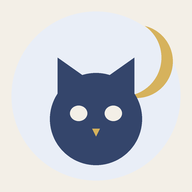
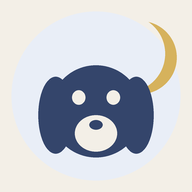
redesign(saju): 마스코트 고양이 → 강아지 + 홈 상단 재구성
- 마스코트 SVG를 처진 귀 강아지로 교체(아이콘·기능그래픽 포함)
- 앱 이름 고양이사주일기 → 강아지사주일기, 말투 ~다냥 → ~다멍
  ('그냥'은 일반 단어라 제외하는 치환 규칙 사용)
- 홈 상단을 좌우 아이콘 2개+가운데 마스코트 → 가로 인사 배너 +
  4×2 빠른메뉴 그리드로 재구성(쿠팡 홈 구성 참고)
- 서비스워커 캐시명 유지, 기존 화면 로직 무변경

Changed region(s): [[0.1875, 0.2812, 0.8438, 0.875], [0.75, 0.0938, 0.9375, 0.4375]]

diff --git a/saju/index.html b/saju/index.html
@@ -3,7 +3,7 @@
 <head>
 <meta charset="utf-8">
 <meta name="viewport" content="width=device-width,initial-scale=1">
-<title>고양이사주일기 — 온보딩·홈·4탭·데일리타로·퍼널·결제</title>
+<title>강아지사주일기 — 온보딩·홈·4탭·데일리타로·퍼널·결제</title>
 <link rel="stylesheet" href="assets/app_v10.css?v=10">
 
 <link rel="manifest" href="manifest.json">
@@ -11,10 +11,10 @@
 <meta name="mobile-web-app-capable" content="yes">
 <meta name="apple-mobile-web-app-capable" content="yes">
 <meta name="apple-mobile-web-app-status-bar-style" content="default">
-<meta name="apple-mobile-web-app-title" content="고양이사주">
+<meta name="apple-mobile-web-app-title" content="강아지사주">
 <link rel="apple-touch-icon" href="icon-192.png">
 <link rel="icon" type="image/png" sizes="512x512" href="icon-512.png">
-<meta name="description" content="사주·타로로 오늘의 나를 기록하는 고양이 운세 일기">
+<meta name="description" content="사주·타로로 오늘의 나를 기록하는 강아지 운세 일기">
 <style id="pwa-standalone">
 /* 앱(standalone)으로 실행될 땐 데스크톱 목업 프레임을 없애고 전체화면으로 */
 @media (display-mode: standalone), (display-mode: fullscreen) {
@@ -34,7 +34,7 @@
   <!-- 온보딩 1~6 -->
   <div class="screen" id="scr-ob1">
     <button class="skip" onclick="finishOnboard()">건너뛰기</button>
-    <div class="ob"><div id="obcat1"></div><h2>안녕하세요.<br>저는 고양이사주일기의 보리예요.</h2></div>
+    <div class="ob"><div id="obcat1"></div><h2>안녕하세요.<br>저는 강아지사주일기의 보리예요.</h2></div>
     <p class="terms">앱을 사용함으로써 <u>개인정보처리방침</u> 및 <u>이용약관</u>에 동의하게 됩니다.</p>
     <button class="btn-cta" onclick="go('scr-ob2')">안녕!</button>
   </div>
@@ -82,25 +82,28 @@
   <div class="screen" id="scr-home">
     <div class="scroll">
       <div class="home-head">
-        <span class="logo">고양이사주일기 🐾</span>
+        <span class="logo">강아지사주일기 🐾</span>
         <span class="right">
           <span class="days" id="days-line"></span>
           <span class="wallet">🐾 <span class="jelly-n">1,500</span> 젤리</span>
         </span>
       </div>
-      <div class="home-top">
-        <div class="icon-col">
-          <button class="h-icon" onclick="showTab('scr-today')"><span class="ic">🍀</span>오늘운세</button>
-          <button class="h-icon" onclick="go('scr-box');renderBox()"><span class="ic">📦</span>운세보관함</button>
-        </div>
-        <div class="mascot">
+      <div class="hero-band">
+        <div class="hero-txt">
           <div class="blurb" id="mascot-talk">‥</div>
-          <div id="homecat"></div>
+          <div class="hero-sub">오늘의 기운을 보리가 먼저 읽어뒀어요</div>
         </div>
-        <div class="icon-col">
-          <button class="h-icon" onclick="openMail()"><span class="ic">📮<span class="noti" id="mail-noti">♥1</span></span>편지함</button>
-          <button class="h-icon" onclick="go('scr-jelly')"><span class="ic">🏭</span>젤리공장</button>
-        </div>
+        <div class="hero-dog" id="homecat"></div>
+      </div>
+      <div class="quick-grid">
+        <button class="q" onclick="showTab('scr-today')"><span class="qi">🍀</span><span class="ql">오늘운세</span></button>
+        <button class="q" onclick="tarotOpen('today','🐾 오늘의 타로')"><span class="qi">🔮</span><span class="ql">데일리타로</span></button>
+        <button class="q" onclick="showTab('scr-diary')"><span class="qi">📔</span><span class="ql">일기장</span></button>
+        <button class="q" onclick="openMail()"><span class="qi">📮<span class="noti" id="mail-noti">♥1</span></span><span class="ql">편지함</span></button>
+        <button class="q" onclick="go('scr-box');renderBox()"><span class="qi">📦</span><span class="ql">운세보관함</span></button>
+        <button class="q" onclick="go('scr-jelly')"><span class="qi">🏭</span><span class="ql">젤리공장</span></button>
+        <button class="q" onclick="go('scr-jelly')"><span class="qi">🎁</span><span class="ql">무료젤리</span></button>
+        <button class="q" onclick="showTab('scr-more')"><span class="qi">⚙</span><span class="ql">더보기</span></button>
       </div>
       <div id="home-sections"><!-- data.js CATALOG로 렌더 --></div>
       <div style="height:30px"></div>
@@ -179,7 +182,7 @@
     <div class="scroll">
       <div class="jf-row"><span class="paw">🐾</span><div class="tx"><b>말랑 젤리</b><span>매일 1 젤리 받기</span></div><button class="get" onclick="earn(this,1)">받기</button></div>
     </div>
-    <div class="toast" id="toast-jelly">젤리가 도착했다냥 🐾</div>
+    <div class="toast" id="toast-jelly">젤리가 도착했다멍 🐾</div>
   </div>
 
   <!-- 편지함 -->
@@ -214,7 +217,7 @@
 
   <!-- 데일리 타로: 인트로 -->
   <div class="screen" id="scr-tarot-intro">
-    <div class="topbar"><button class="back" onclick="showTab('scr-home')">←</button><span class="h-title">고양이사주일기 🐾</span></div>
+    <div class="topbar"><button class="back" onclick="showTab('scr-home')">←</button><span class="h-title">강아지사주일기 🐾</span></div>
     <div class="tarot-intro">
       <div id="tarotcat"></div>
       <h2 id="tarot-intro-msg"></h2>
@@ -225,9 +228,9 @@
 
   <!-- 데일리 타로: 뽑기 애니메이션 -->
   <div class="screen" id="scr-tarot-draw">
-    <div class="topbar"><button class="back" onclick="go('scr-tarot-intro')">←</button><span class="h-title">고양이사주일기 🐾</span></div>
+    <div class="topbar"><button class="back" onclick="go('scr-tarot-intro')">←</button><span class="h-title">강아지사주일기 🐾</span></div>
     <div class="draw-stage">
-      <div class="draw-hint" id="draw-hint">카드를 섞는 중이다냥…</div>
+      <div class="draw-hint" id="draw-hint">카드를 섞는 중이다멍…</div>
       <div class="deck shuffling" id="deck"><span class="back"></span><span class="back"></span><span class="back"></span></div>
       <div class="pick3" id="pick3" style="display:none"></div>
     </div>
@@ -235,7 +238,7 @@
 
   <!-- 데일리 타로: 결과 -->
   <div class="screen" id="scr-tarot-res">
-    <div class="topbar"><button class="back" onclick="showTab('scr-home')">←</button><span class="h-title">고양이사주일기 🐾</span></div>
+    <div class="topbar"><button class="back" onclick="showTab('scr-home')">←</button><span class="h-title">강아지사주일기 🐾</span></div>
     <div class="scroll">
       <div class="tarot-res" id="tarot-res-body"></div>
     </div>
@@ -248,7 +251,7 @@
     <div class="topbar"><button class="back" onclick="showTab('scr-home')">←</button></div>
     <div class="scroll" id="funnel-g-body"></div>
     <button class="btn-cta" onclick="startSajuInput()">다음</button>
-    <div class="toast" id="toast-funnel-g">지금 사용할 수 있는 쿠폰이 있다냥 🐈</div>
+    <div class="toast" id="toast-funnel-g">지금 사용할 수 있는 쿠폰이 있다멍 🐈</div>
   </div>
 
   <!-- 앱 내 카드 슬라이드 리포트 (다크) -->
@@ -314,7 +317,7 @@
           <li>🙋♀ <b>사주로 보는 결혼 후의 나</b></li>
           <li class="dep">🖐 오행으로 보는 사주 해석</li>
           <li class="dep">🔟 십신으로 보는 사주 해석</li>
-          <li class="dep">🐱 일주로 보는 내 고양이</li>
+          <li class="dep">🐱 일주로 보는 내 강아지</li>
           <li>💔 <b>절대 만나선 안되는 결혼 상대</b></li>
           <li class="dep">📅 언제 만나게 되는지<span class="pop">인기</span></li>
           <li class="dep">🧑 그 상대의 성격 + 외모<span class="pop">인기</span></li>
@@ -342,7 +345,7 @@
       <div style="height:20px"></div>
     </div>
     <button class="btn-cta" onclick="startSajuInput()">다음</button>
-    <div class="toast" id="toast-funnel">지금 사용할 수 있는 쿠폰이 있다냥 🐈</div>
+    <div class="toast" id="toast-funnel">지금 사용할 수 있는 쿠폰이 있다멍 🐈</div>
   </div>
 
   <!-- 통합 사주/타로 입력 (단계식) — 모든 상품이 이 한 화면을 공유 -->
@@ -362,14 +365,14 @@
       <p class="wallet-line" style="color:#b8b0a2">결제하면 운세보관함에 영구 저장돼 언제든 다시 볼 수 있어요.</p>
     </div>
     <button class="btn-cta" id="pay-btn" onclick="pay()">젤리 내고 보기</button>
-    <div class="toast" id="toast-pay">쿠폰이 자동으로 적용됐다냥 🎟</div>
+    <div class="toast" id="toast-pay">쿠폰이 자동으로 적용됐다멍 🎟</div>
   </div>
 
   <!-- 로딩 -->
   <div class="screen" id="scr-loading">
     <div class="load-wrap">
       <div class="load-cat">🐱</div>
-      <div class="load-msg" id="load-msg">만세력을 뒤적이는 중이다냥…</div>
+      <div class="load-msg" id="load-msg">만세력을 뒤적이는 중이다멍…</div>
       <div class="dots"><span class="dot"></span><span class="dot"></span><span class="dot"></span></div>
     </div>
     <button class="btn-cta" id="btn-result" style="display:none" onclick="goResult()">결과 보러 가기 ✨</button>
@@ -413,7 +416,7 @@ function resetAll(){ Object.keys(localStorage).filter(k=>k.startsWith('catsaju_'
 
 /* ═══ 공용 UI ═══ */
 const $=id=>document.getElementById(id);
-const CAT_SVG='<svg viewBox="0 0 120 100"><g fill="#fff" stroke="#4a3d33" stroke-width="3.4" stroke-linejoin="round" stroke-linecap="round"><path d="M35 30 L28 10 L48 20 Z"/><path d="M85 30 L92 10 L72 20 Z"/><ellipse cx="60" cy="52" rx="34" ry="30"/></g><g stroke="#4a3d33" stroke-width="2.6" stroke-linecap="round"><line x1="14" y1="48" x2="30" y2="50"/><line x1="14" y1="58" x2="30" y2="56"/><line x1="106" y1="48" x2="90" y2="50"/><line x1="106" y1="58" x2="90" y2="56"/></g><circle cx="48" cy="50" r="2.8" fill="#4a3d33"/><circle cx="72" cy="50" r="2.8" fill="#4a3d33"/><path d="M55 60 Q60 65 65 60" stroke="#4a3d33" stroke-width="2.6" fill="none" stroke-linecap="round"/></svg>';
+const CAT_SVG='<svg viewBox="0 0 120 100"><g fill="#fff" stroke="#4a3d33" stroke-width="3.4" stroke-linejoin="round" stroke-linecap="round"><path d="M34 30 Q17 36 18 58 Q19 78 36 76 Z"/><path d="M86 30 Q103 36 102 58 Q101 78 84 76 Z"/><ellipse cx="60" cy="50" rx="32" ry="29"/><ellipse cx="60" cy="64" rx="18" ry="13"/></g><circle cx="47" cy="45" r="3" fill="#4a3d33"/><circle cx="73" cy="45" r="3" fill="#4a3d33"/><ellipse cx="60" cy="58" rx="5.6" ry="4.2" fill="#4a3d33"/><g stroke="#4a3d33" stroke-width="2.6" fill="none" stroke-linecap="round"><path d="M60 62 v3"/><path d="M60 65 q-6 5 -11 0"/><path d="M60 65 q6 5 11 0"/></g></svg>';
 ['obcat1','obcat2','obcat3','obcat4','obcat5','obcat6','homecat','diarycat','tarotcat'].forEach(id=>{ const el=$(id); if(el) el.innerHTML=CAT_SVG; });
 
 function go(id){
@@ -433,7 +436,7 @@ function updateTabbar(cur){
   $(cur).appendChild(div);
 }
 function showTab(id){ go(id); if(id==='scr-today') renderToday(); if(id==='scr-diary') renderDiary(); if(id==='scr-more') renderMore(); if(id==='scr-home') renderHome(); }
-const STUBS=['은 다음 업데이트에서 열려냥 🐾','는 지금 열심히 만드는 중이야 🔨','는 조금만 기다려줘, 예쁘게 굽는 중 🎀'];
+const STUBS=['은 다음 업데이트에서 열려멍 🐾','는 지금 열심히 만드는 중이야 🔨','는 조금만 기다려줘, 예쁘게 굽는 중 🎀'];
 function stub(name){ const t=$('toast-global'); t.textContent='「'+name.replace(/^[^\s]+ /,'')+'」'+STUBS[hashN(name,STUBS.length)]; t.classList.add('show'); setTimeout(()=>t.classList.remove('show'),1900); }
 function couponToast(){ setTimeout(()=>flash('toast-funnel'),600); }
 function flash(id){ const t=$(id); t.classList.add('show'); setTimeout(()=>t.classList.remove('show'),2400); }
@@ -583,7 +586,7 @@ function startHeroTimer(){ if(_heroTmr)clearInterval(_heroTmr); let t=86381;
 /* L3 무료 쇼츠 스트립 (가변보상 도파민) */
 const SHORTS=[
   ['🍟','오늘 뭐 먹지?',['마라탕 🥵','국밥 🍚','샐러드 🥗','치킨 🍗','파스타 🍝'],'spin'],
-  ['🐱','고양이 속마음',['집사, 오늘 좀 멋진데? 🐾','간식 어디감? 😾','네 곁이 제일 좋아 💜'],''],
+  ['🐱','강아지 속마음',['집사, 오늘 좀 멋진데? 🐾','간식 어디감? 😾','네 곁이 제일 좋아 💜'],''],
   ['🙆','YES or NO',['YES! 질러도 좋은 날 🙆','조금만 기다려 🙅','반반의 날 🤔'],'spin'],
   ['🎨','오늘 행운 컬러',['라벤더 💜','민트 🌿','코랄 🧡','아이보리 🤍'],''],
   ['🍀','행운 카드',['오늘은 귀인을 만날 운 🍀','작은 선물이 올 운 🎁','미뤄둔 연락이 올 운 📩'],'spin'],
@@ -595,7 +598,7 @@ function shortsHtml(){
 /* 쇼츠 결과 — 토스트로 흘려보내지 않고 제대로 된 결과 시트 + 보관함 저장 */
 const SHORT_DESC={
   '오늘 뭐 먹지?':['오늘 네 기운엔 이게 제일 잘 맞아. 고민할 시간에 그냥 이걸로 🍽','속이 편한 쪽을 고르면 오후 컨디션이 달라져.'],
-  '고양이 속마음':['보리가 오늘 너한테 하고 싶은 말이야 🐾','오늘은 이 말이 유독 필요한 날 같아서.'],
+  '강아지 속마음':['보리가 오늘 너한테 하고 싶은 말이야 🐾','오늘은 이 말이 유독 필요한 날 같아서.'],
   'YES or NO':['오늘 흐름 기준의 답이야. 참고만 해 🙆','확신이 안 서면 하루 재워두는 것도 답이야.'],
   '오늘 행운 컬러':['오늘 이 색을 한 점만 지녀도 기운이 붙어 🎨','옷·소품·폰 배경 어디든 좋아.'],
   '행운 카드':['오늘 너에게 들어온 기운이야 🍀','작은 신호를 놓치지 마.'],
@@ -762,7 +765,7 @@ function tarotShuffle(){
   go('scr-tarot-draw');
   const deck=$('deck'), pick=$('pick3'), hint=$('draw-hint');
   deck.style.display=''; deck.classList.add('shuffling'); pick.style.display='none';
-  hint.textContent='카드를 섞는 중이다냥…';
+  hint.textContent='카드를 섞는 중이다멍…';
   setTimeout(()=>{
     deck.classList.remove('shuffling'); deck.style.display='none';
     hint.textContent='마음이 가는 카드를 한 장 골라봐 🐾';
@@ -814,7 +817,7 @@ function tarotDraw(){
     <div class="kw-row">${c.kw.map(k=>`<span class="kw">${k}</span>`).join('')}</div>
     <p class="rtext">${p1}</p>
     <p class="rtext">${p2}</p>
-    <div class="react-total">이 운세, 어땠냥? <b>${(90000+seed).toLocaleString()}명</b>이 반응했어요</div>
+    <div class="react-total">이 운세, 어땠멍? <b>${(90000+seed).toLocaleString()}명</b>이 반응했어요</div>
     <div class="react-row">
       ${[['💜','고마워'],['💪','힘난다'],['🍀','도움돼'],['😀','재밌어'],['🤔','아쉬워']].map(([e,l])=>
         `<button class="react-btn" onclick="this.classList.toggle('picked')"><span class="re">${e}</span>${l}</button>`).join('')}
@@ -920,7 +923,7 @@ function closeSent(){
   $('dlg-sent').classList.remove('show'); $('reply-area').style.display='none';
   const now=new Date(); const ls=S.letters;
   ls.push({ date:`${now.getFullYear()}. ${now.getMonth()+1}. ${now.getDate()}.`,
-    text:`답장 고마워!! 편지함에 네 글씨가 있으니까 기분이 좋다냥. 내일 아침 운세도 예쁘게 준비해둘게 🐾`, read:true });
+    text:`답장 고마워!! 편지함에 네 글씨가 있으니까 기분이 좋다멍. 내일 아침 운세도 예쁘게 준비해둘게 🐾`, read:true });
   S.letters=ls; renderLetters();
 }
 
@@ -1147,7 +1150,7 @@ function startLoading(){
   const MSGS=[...LOADING_MSGS.slice(0,3), ...own, LOADING_MSGS[LOADING_MSGS.length-1]];
   $('load-msg').textContent=MSGS[0];
   msgTimer=setInterval(()=>{ i++;
-    if(i>=MSGS.length){ clearInterval(msgTimer); $('btn-result').style.display='block'; $('load-msg').textContent='다 됐어! 네 리포트가 나왔다냥 ✨'; return; }
+    if(i>=MSGS.length){ clearInterval(msgTimer); $('btn-result').style.display='block'; $('load-msg').textContent='다 됐어! 네 리포트가 나왔다멍 ✨'; return; }
     $('load-msg').textContent=MSGS[i]; },1000);
 }
 function goResult(){ const p=S.box.find(x=>x.type==='report'); openReport(p); }
@@ -1210,7 +1213,7 @@ function openTodayFortune(){
     <div class="rtime" style="background:#fff;color:#3d3833">${warn('color')}</div>
     <div class="rtime" style="background:#bfe0f5;color:#1c4a66">${warn('place')}</div>
     <div class="rtime" style="background:#d8c9f5;color:#3b2b6e">👶 조심할 사람: ${warn('person')}</div></div>`);
-  cards.push(`<div class="big">🐱</div><h2>운세 풀이는 어땠냥?</h2>
+  cards.push(`<div class="big">🐱</div><h2>운세 풀이는 어땠멍?</h2>
     <div class="react-row" style="flex-wrap:wrap;justify-content:center;gap:8px">
       ${[['💜','고마워'],['💪','힘난다'],['🍀','도움돼'],['😀','재밌어'],['🤔','아쉬워']].map(([e,l])=>
         `<button class="react-btn" onclick="this.classList.toggle('picked')"><span class="re">${e}</span>${l}</button>`).join('')}
@@ -2034,7 +2037,7 @@ function buildChoeae(c){
      <p class="ctr">${type[0].includes('불꽃')||type[0].includes('밀당')?'둘 다 고집이 세지는 날엔 아무도 안 져. 그날은 서로의 팬으로 한 발 물러서기.':'둘 다 속마음을 늦게 여는 편이라, 현실에서 만났다면 썸이 아주 길었을 거야.'}</p>`,
     `<h2>🌙 전생의 우리는</h2><p class="ctr">${past}</p>`,
     `<div class="big">✨</div><h2>${month}월을 기억해</h2>
-     <p class="ctr">올해 ${month}월, ${who}의 기운이 네 사주에 가장 가깝게 스치는 달이야.<br>콘서트·팬미팅·컴백 — <span class="gold">덕질 총력전은 이 달</span>이 답이다냥 🐾</p>`
+     <p class="ctr">올해 ${month}월, ${who}의 기운이 네 사주에 가장 가깝게 스치는 달이야.<br>콘서트·팬미팅·컴백 — <span class="gold">덕질 총력전은 이 달</span>이 답이다멍 🐾</p>`
   ];
 }
 

diff --git a/saju/assets/data_v10.js b/saju/assets/data_v10.js
@@ -1,4 +1,4 @@
-/* ═══ 고양이사주 데이터 (콘텐츠 카탈로그 · 타로덱 · 문구 풀) ═══
+/* ═══ 강아지사주 데이터 (콘텐츠 카탈로그 · 타로덱 · 문구 풀) ═══
    콘텐츠 추가/수정은 대부분 이 파일만 고치면 됨 — 앱 로직(01)은 안 건드려도 됨. */
 
 /* 홈 카탈로그 — price: 젤리(0=무료), badge: HOT/NEW, act: 동작(funnel/tarot:덱키/stub) */
@@ -82,7 +82,7 @@ const CATALOG = {
     { t:'🎨 오늘의 행운 컬러', price:0, act:'stub' },
     { t:'📖 오늘의 학업운', price:0, act:'stub' },
     { t:'🐶 오늘의 강아지 속마음', price:0, act:'stub' },
-    { t:'🐱 오늘의 고양이 속마음', price:0, act:'stub' },
+    { t:'🐱 오늘의 강아지 속마음', price:0, act:'stub' },
     { t:'🍀 오늘의 행운 카드', price:0, act:'tarot:today' },
     { t:'🗺 오늘의 행운 장소', price:0, act:'stub' },
     { t:'🙆 YES or NO 타로', price:0, act:'tarot:yesno' },
@@ -550,14 +550,14 @@ const TODAY_WARN={
 };
 
 const BORA_DIARY_REPLIES=[
-  '오늘 하루도 잘 버텼네. 그거면 충분하다냥 🐾',
+  '오늘 하루도 잘 버텼네. 그거면 충분하다멍 🐾',
   '읽다가 마음이 몽글해졌어. 내일은 내가 더 좋은 운세 준비해둘게!',
   '그런 날도 있는 거야. 네 잘못 아니라는 것만 기억해 줘 💜',
   '오, 이런 일이 있었구나! 다음 편지에 이 얘기 더 물어봐도 돼?',
   '쓰느라 고생했어. 오늘 밤은 꿈자리가 포근할 거야 🌙'
 ];
 /* 공통 로딩(앞 3장) — 어느 상품이든 사주를 펼치는 과정은 같음 */
-const LOADING_MSGS=['만세력을 뒤적이는 중이다냥…','네 일주 동물을 찾았어! 조금만 기다려…','오행의 균형을 재는 중…','리포트를 예쁘게 묶는 중이다냥 🎀'];
+const LOADING_MSGS=['만세력을 뒤적이는 중이다멍…','네 일주 동물을 찾았어! 조금만 기다려…','오행의 균형을 재는 중…','리포트를 예쁘게 묶는 중이다멍 🎀'];
 /* ⚠ 상품별 로딩 문구 — 전에는 전 상품이 marriage 문구("피해야 할 인연의 그림자를 추적 중")를
    공유해서, 재회를 결제해도 "만나면 안되는 사람" 로딩이 떴음. report 키로 갈라줌. */
 const LOADING_BY_REPORT={
@@ -572,7 +572,7 @@ const LOADING_BY_REPORT={
   future10:  ['10년 뒤 현관 앞 풍경을 그리는 중…'],
   pastlife:  ['전생의 기록을 더듬는 중…'],
 };
-const MASCOT_TALK=['오늘도 와줬구나!','네 운세 벌써 봐뒀다냥','편지 확인했어…?','수영 중이야, 시원해 🌊','젤리 냄새가 난다…'];
+const MASCOT_TALK=['오늘도 와줬구나!','네 운세 벌써 봐뒀다멍','편지 확인했어…?','수영 중이야, 시원해 🌊','젤리 냄새가 난다…'];
 
 /* ═══ ver10.3 — 30장+ 심층 리포트용 공용 풀 ═══ */
 /* 일간(日干) 성격 — 천간 index 0~9 (갑을병정무기경신임계) */

diff --git a/saju/assets/app_v10.css b/saju/assets/app_v10.css
@@ -579,3 +579,29 @@ button:active{transform:scale(.955)}
 .sp-card .sp-lock{position:absolute;right:10px;bottom:9px;font-size:15px;opacity:.85}
 .sp-card::after{content:"";position:absolute;left:0;right:0;bottom:0;height:52px;background:linear-gradient(transparent,#151b2c)}
 .sp-foot{text-align:center;font-size:11.5px;color:var(--sub);padding-top:2px}
+
+
+/* === 강아지 홈 상단 (hero-band + quick-grid) === */
+.hero-band{display:flex;align-items:center;gap:12px;margin:12px 16px 0;padding:12px 14px;
+  background:linear-gradient(135deg,#e9eef7 0%,#f7f2e8 100%);
+  border:1.5px solid var(--line);border-radius:20px}
+.hero-band .hero-txt{flex:1;min-width:0}
+.hero-band .blurb{display:inline-block;background:#fff;border:1.5px solid var(--line);border-radius:14px;
+  padding:5px 12px;font-size:12.5px;font-weight:700;color:var(--ink);
+  box-shadow:0 2px 6px rgba(52,69,107,.06);line-height:1.4}
+.hero-band .hero-sub{font-size:11.5px;color:var(--sub);margin-top:7px;line-height:1.5}
+.hero-dog{flex:0 0 84px;width:84px}
+.hero-dog svg{width:84px;display:block}
+
+.quick-grid{display:grid;grid-template-columns:repeat(4,1fr);margin:12px 16px 0;padding:14px 4px 10px;
+  background:var(--card);border:1.5px solid var(--line);border-radius:20px;
+  box-shadow:0 2px 8px rgba(52,69,107,.04)}
+.quick-grid .q{background:none;border:none;cursor:pointer;padding:8px 0 10px;
+  display:flex;flex-direction:column;align-items:center;gap:7px}
+.quick-grid .qi{width:46px;height:46px;border-radius:50%;background:var(--purple-soft);
+  display:flex;align-items:center;justify-content:center;font-size:23px;position:relative;
+  transition:transform .12s ease}
+.quick-grid .q:active .qi{transform:scale(.92)}
+.quick-grid .ql{font-size:11.5px;font-weight:700;color:var(--ink);letter-spacing:-.4px;white-space:nowrap}
+.quick-grid .qi .noti{position:absolute;top:-3px;right:-5px;background:#e2574c;color:#fff;
+  font-size:9px;font-weight:800;border-radius:10px;padding:1px 5px;line-height:1.5}

diff --git a/saju/privacy.html b/saju/privacy.html
@@ -1,7 +1,7 @@
 <!doctype html>
 <html lang="ko"><head><meta charset="utf-8">
 <meta name="viewport" content="width=device-width,initial-scale=1">
-<title>고양이사주일기 개인정보 처리방침</title>
+<title>강아지사주일기 개인정보 처리방침</title>
 <style>
 body{max-width:720px;margin:0 auto;padding:28px 20px 60px;background:#f3efe7;color:#3d3833;
   font-family:-apple-system,'Apple SD Gothic Neo','Malgun Gothic',sans-serif;line-height:1.75}
@@ -9,7 +9,7 @@ h1{font-size:24px;margin:0 0 6px} h2{font-size:17px;margin:28px 0 8px;color:#344
 .date{color:#8a8378;font-size:13px;margin-bottom:24px}
 ul{padding-left:20px} li{margin:4px 0}
 </style></head><body>
-<h1>고양이사주일기 개인정보 처리방침</h1>
+<h1>강아지사주일기 개인정보 처리방침</h1>
 <p class="date">시행일: 2026년 7월 31일</p>
 
 <h2>1. 수집하는 정보</h2>
